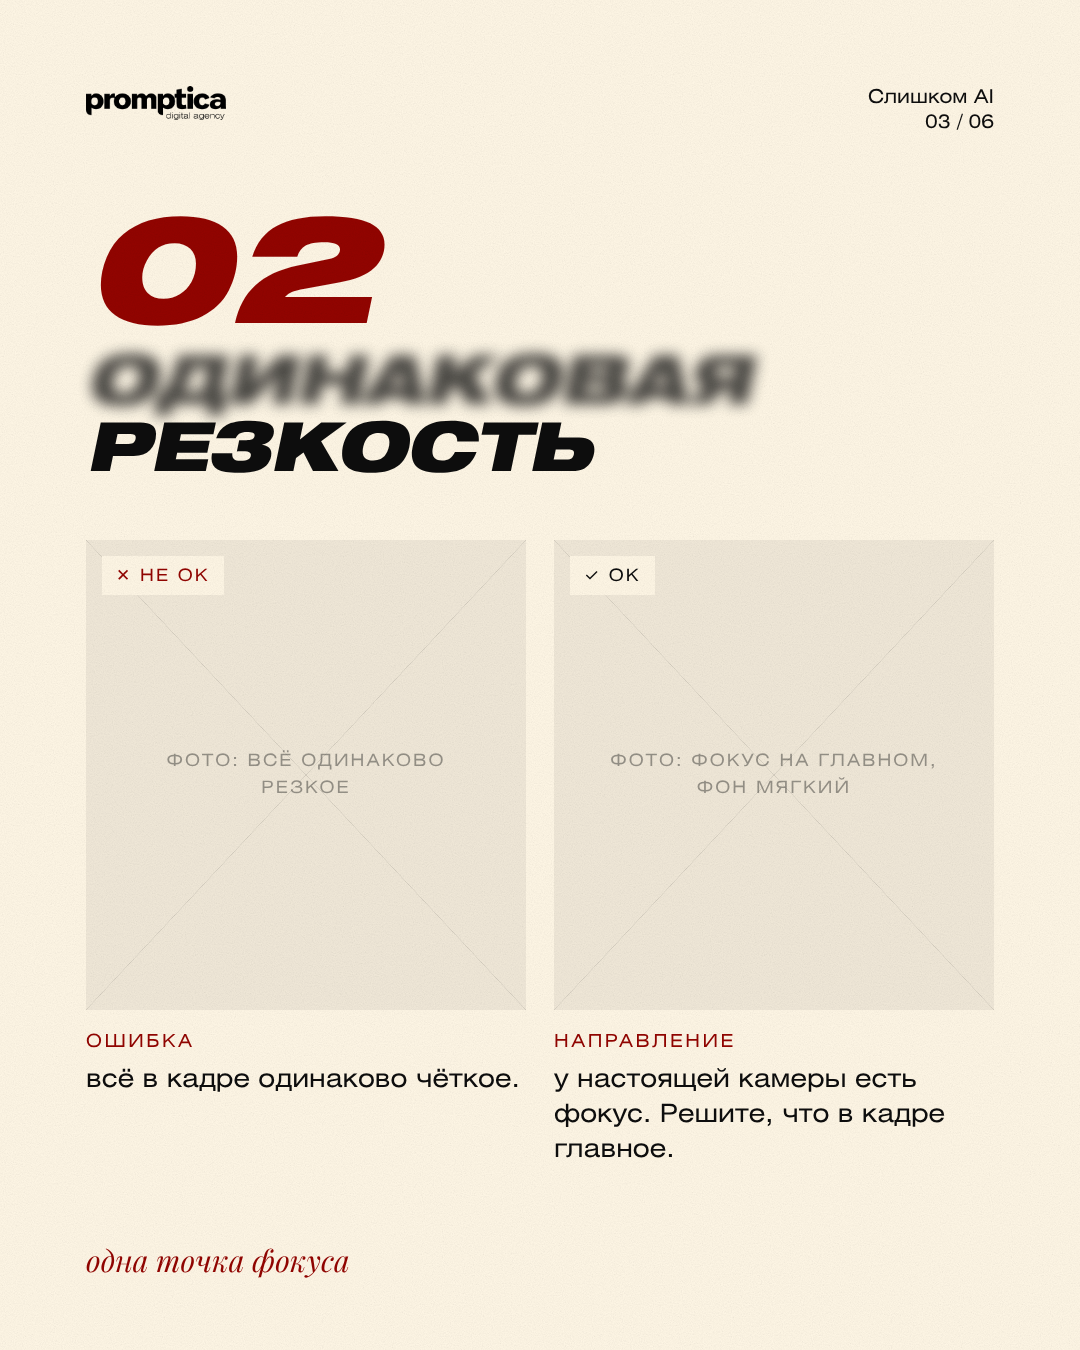
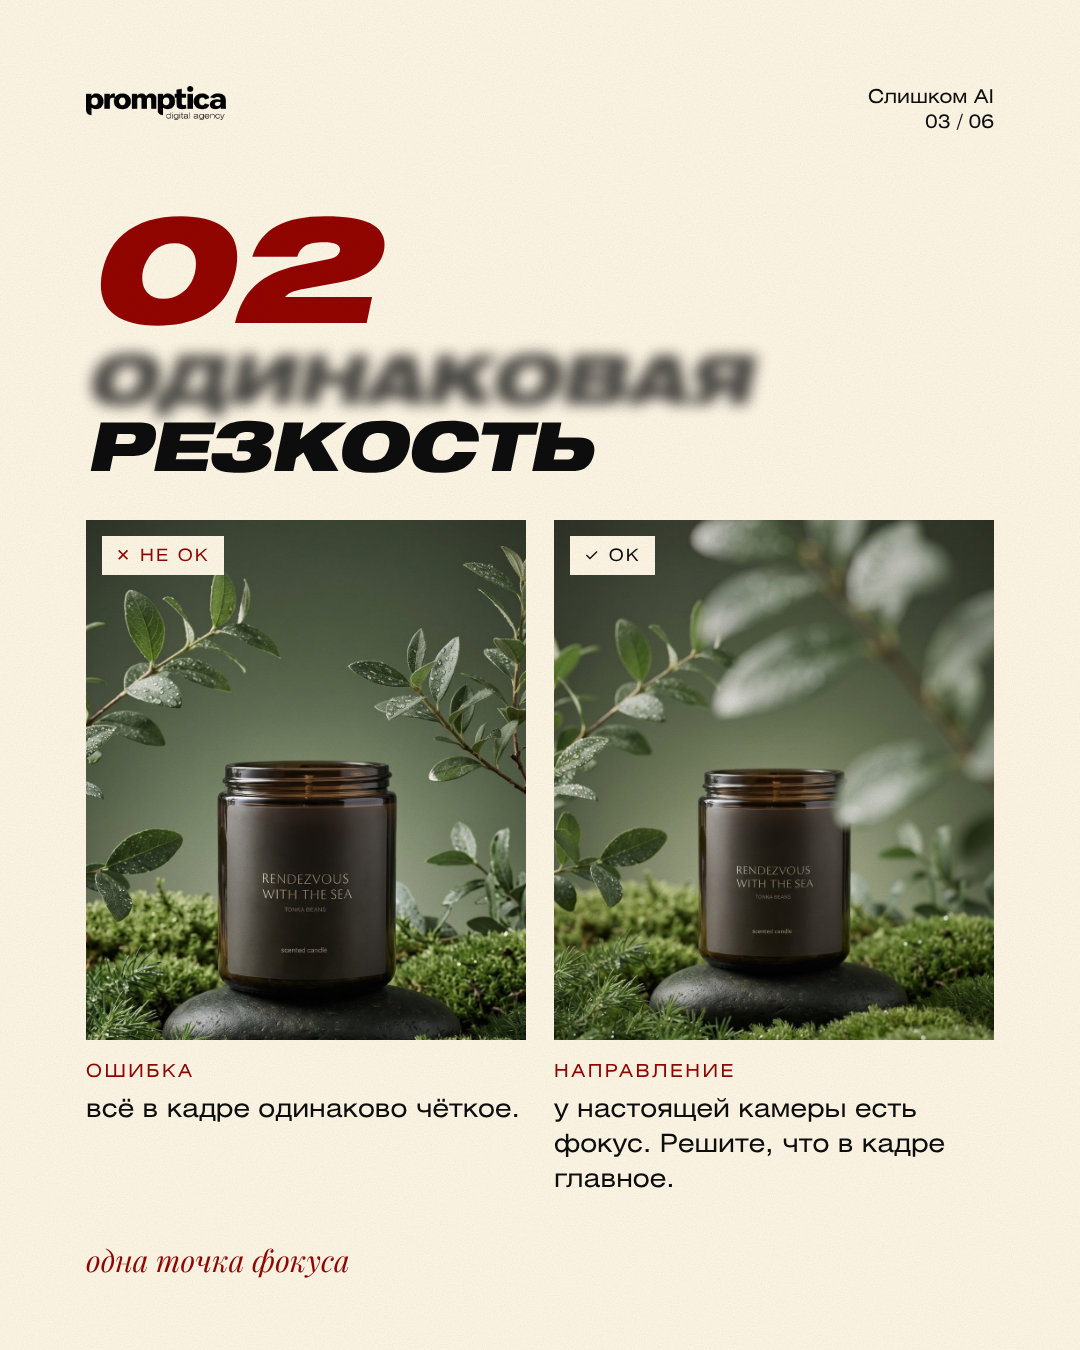
«Слишком AI»: фото на слайдах 2 и 3, рамки под фото выше
Claude-Session: https://claude.ai/code/session_01V1NUh11xrVMcB1cs4GV2qz

diff --git a/carousels/promptica-too-ai/02.html b/carousels/promptica-too-ai/02.html
@@ -22,9 +22,9 @@
     <div class="h title gloss" data-t="Пластиковые&#10;материалы" style="white-space:pre-line">Пластиковые
 материалы</div>
     <div class="pair">
-      <div class="col bad"><div class="ph"><span class="badge">✕ не ок</span><div class="x"></div><div class="hint">фото: глянцевая кожа<br>и ткань</div><img src="img/02-bad.jpg" alt="" onerror="this.remove()"></div>
+      <div class="col bad"><div class="ph"><span class="badge">✕ не ок</span><div class="x"></div><div class="hint">фото: глянцевая кожа<br>и ткань</div><img src="img/02-bad.jpg" style="object-position:50% 0" alt="" onerror="this.remove()"></div>
         <div class="cap"><div class="lbl">Ошибка</div><p class="txt">кожа и ткань блестят как глянцевый пластик.</p></div></div>
-      <div class="col good"><div class="ph"><span class="badge">✓ ок</span><div class="x"></div><div class="hint">фото: матовая живая<br>фактура</div><img src="img/02-good.jpg" alt="" onerror="this.remove()"></div>
+      <div class="col good"><div class="ph"><span class="badge">✓ ок</span><div class="x"></div><div class="hint">фото: матовая живая<br>фактура</div><img src="img/02-good.jpg" style="object-position:50% 0" alt="" onerror="this.remove()"></div>
         <div class="cap"><div class="lbl">Направление</div><p class="txt">следите за фактурой. Живая поверхность матовая и неидеальная.</p></div></div>
     </div>
     <div class="note">матовое &gt; глянцевое</div>

diff --git a/carousels/promptica-too-ai/03.html b/carousels/promptica-too-ai/03.html
@@ -17,9 +17,9 @@
     <div class="num">02</div>
     <div class="h title"><span class="soft">Одинаковая</span><br>резкость</div>
     <div class="pair">
-      <div class="col bad"><div class="ph"><span class="badge">✕ не ок</span><div class="x"></div><div class="hint">фото: всё одинаково<br>резкое</div><img src="img/03-bad.jpg" alt="" onerror="this.remove()"></div>
+      <div class="col bad"><div class="ph"><span class="badge">✕ не ок</span><div class="x"></div><div class="hint">фото: всё одинаково<br>резкое</div><img src="img/03-bad.jpg" style="object-position:50% 24%" alt="" onerror="this.remove()"></div>
         <div class="cap"><div class="lbl">Ошибка</div><p class="txt">всё в кадре одинаково чёткое.</p></div></div>
-      <div class="col good"><div class="ph"><span class="badge">✓ ок</span><div class="x"></div><div class="hint">фото: фокус на главном,<br>фон мягкий</div><img src="img/03-good.jpg" alt="" onerror="this.remove()"></div>
+      <div class="col good"><div class="ph"><span class="badge">✓ ок</span><div class="x"></div><div class="hint">фото: фокус на главном,<br>фон мягкий</div><img src="img/03-good.jpg" style="object-position:50% 24%" alt="" onerror="this.remove()"></div>
         <div class="cap"><div class="lbl">Направление</div><p class="txt">у настоящей камеры есть фокус. Решите, что в кадре главное.</p></div></div>
     </div>
     <div class="note">одна точка фокуса</div>

diff --git a/carousels/promptica-too-ai/style.css b/carousels/promptica-too-ai/style.css
@@ -32,9 +32,9 @@ html, body { width: 1080px; height: 1350px; overflow: hidden; }
 
 /* пара «не ок / ок»: две рамки под фото + подписи под ними.
    Фото кладутся в img/NN-bad.jpg и img/NN-good.jpg (NN = номер слайда) — пока их нет, видна схема. */
-.pair { position: absolute; left: var(--m); right: var(--m); top: 540px; display: flex; gap: 28px; }
+.pair { position: absolute; left: var(--m); right: var(--m); top: 520px; display: flex; gap: 28px; }
 .col { flex: 1; }
-.ph { position: relative; height: 470px; background: rgba(13,13,13,.06); overflow: hidden; }
+.ph { position: relative; height: 520px; background: rgba(13,13,13,.06); overflow: hidden; }
 .ph img { position: absolute; inset: 0; width: 100%; height: 100%; object-fit: cover; }
 .ph .hint { position: absolute; inset: 0; display: flex; align-items: center; justify-content: center; text-align: center; font-size: 17px; letter-spacing: .12em; text-transform: uppercase; color: rgba(13,13,13,.4); padding: 20px; line-height: 1.6; }
 .ph .x { position: absolute; inset: 0; background: linear-gradient(to top right, transparent calc(50% - .5px), rgba(13,13,13,.12) 50%, transparent calc(50% + .5px)), linear-gradient(to bottom right, transparent calc(50% - .5px), rgba(13,13,13,.12) 50%, transparent calc(50% + .5px)); }
